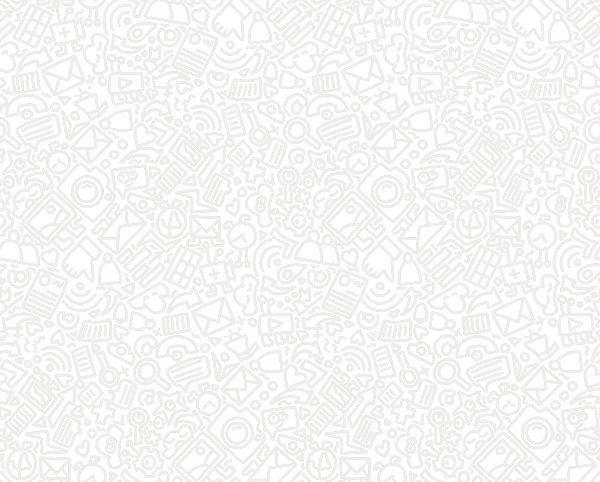
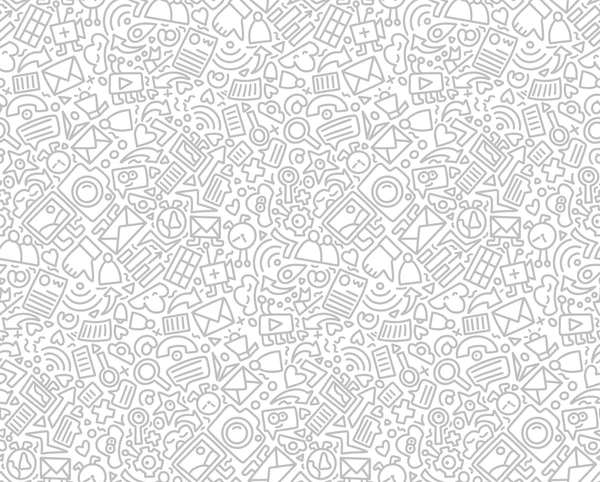
feat: ui enhancements

diff --git a/pages/chat.vue b/pages/chat.vue
@@ -2,7 +2,7 @@
     <div class="content">
         <div class="user-container">
             <h2 class="mb-3">Users</h2>
-            <span class="sidebar-user" v-for="name in usernames">
+            <span :class="`sidebar-user ${name == store.username ? 'active' : ''}`" v-for="name in usernames">
                 <Avatar :username="name" active />
                 <p class="ml-3">{{ name }}</p>
             </span>
@@ -33,7 +33,7 @@ import Avatar from '~/components/Avatar.vue'
 import { ref } from 'vue'
 import { useHead } from '@unhead/vue'
 
-useHead({ title: 'NuxtChat' })
+useHead({ title: 'NuxtChat - ' + store.username })
 watchEffect(() => {
     if (store.username == '') navigateTo('/')
 })
@@ -50,14 +50,12 @@ onMounted(() => {
 })
 
 let usernames = ref([]);
-watch([data, users], async () => {
-    let temp = [store.username]
-    if (users.value.length > 0) {
-        temp = temp.concat(...users.value)
-    } else {
-        temp = temp.concat(...data.value)
-    }
-    usernames.value = [...new Set(temp.sort())]
+watch([users], async () => {
+    if (users.value.length == 0) return;
+    usernames.value = [...new Set([store.username, ...users.value].sort())]
+});
+watch([data], async () => {
+    usernames.value = [...new Set([store.username, ...data.value].sort())]
 });
 
 const inputValue = ref('')
@@ -92,7 +90,6 @@ input {
     display: flex;
     height: calc(100vh - 84px);
     margin: 0 auto;
-    border: 1px solid #ccc;
 
     width: 100%;
     color: darkslategray;
@@ -100,18 +97,36 @@ input {
 
 .user-container {
     min-width: 15rem;
-    background-color: white;
+    background-color: rgb(250, 250, 250);
     border-right: 1px solid #ccc;
-    padding: 1rem 1rem 1rem 5rem;
+    padding: 1rem 0 1rem 0;
 
     h2 {
+        margin-left: 5rem;
         font-weight: bold;
     }
 
     .sidebar-user {
         display: flex;
         align-items: center;
+        padding-left: 5rem;
         margin-bottom: .5rem;
+        padding-top: .5rem;
+        border-top: rgba(119, 119, 119, 0.073) solid 2px;
+
+        &:last-of-type {
+            padding-bottom: .5rem;
+            border-bottom: rgba(119, 119, 119, 0.073) solid 2px;
+        }
+
+        &.active {
+            background-color: rgba(238, 238, 238, 0.355);
+
+            p {
+                color: #00b86b;
+                font-size: large;
+            }
+        }
 
         img {
             border: #00dc82 solid 3px !important;
@@ -139,8 +154,9 @@ input {
 
     .textbox {
         display: flex;
-        border-top: 1px solid #ccc;
+        border-top: 1px solid #0f1729;
         padding: 20px;
+        background-color: #0f1729;
 
         .text-input {
             width: 100%;

diff --git a/layouts/default.vue b/layouts/default.vue
@@ -3,19 +3,21 @@
         <p class="logo-text"><img id="header-icon" src="/favicon.ico" alt="" />Nuxt<span>Chat</span></p>
         <div class="user-section flex" v-if="store.activeSession">
             <UAvatar style="background-color: white;" :src="`https://robohash.org/${store.username}`" alt="Avatar" />
-            <div @click="toggleDropdown">
-                <p class="ml-2 self-center">{{ store.username }}</p>
-                <UIcon id="dropdown-icon"
-                    :name="isDropdownActive ? 'i-heroicons-chevron-up-20-solid' : 'i-heroicons-chevron-down-20-solid'"
-                    class="w-5 h-5 ml-2 color-white" />
-            </div>
-            <div id="dropdown-section" :class="isDropdownActive ? 'active' : ''">
-                <UButton @click="handleLogout">logout</UButton>
-            </div>
+            <UDropdown class="ml-3" :items="[[{
+                label: 'Logout',
+                icon: 'i-heroicons-power-20-solid',
+                click: handleLogout
+            }]]" :popper="{ placement: 'bottom-start' }">
+                <div>
+                    <p class="self-center">{{ store.username }}</p>
+                    <UIcon id="dropdown-icon" name="i-heroicons-chevron-down-20-solid"
+                        class="w-5 h-5 ml-2 color-white" />
+                </div>
+            </UDropdown>
         </div>
     </div>
     <NuxtLoadingIndicator />
-    <slot />
+    <slot></slot>
 </template>
 
 <script setup>
@@ -24,9 +26,6 @@ import { ref } from 'vue';
 
 const isDropdownActive = ref(false)
 
-const toggleDropdown = () => {
-    isDropdownActive.value = !isDropdownActive.value
-}
 const handleLogout = () => {
     isDropdownActive.value = false
     navigateTo('/')
@@ -63,28 +62,5 @@ const handleLogout = () => {
 
 #header-icon {
     width: 40px;
-}
-
-#dropdown-icon {
-    transition: all 1s ease-in-out;
-}
-
-#dropdown-section {
-    position: absolute;
-    width: 8rem;
-    background-color: white;
-    transform: translateY(3rem);
-    display: none;
-    padding: .5rem;
-    border-radius: 10px;
-    transition: all 1s ease-in-out;
-
-    &.active {
-        display: block;
-    }
-
-    button {
-        width: 100%;
-    }
 }
 </style>

diff --git a/server/api/getUsers.ts b/server/api/getUsers.ts
@@ -1,9 +1,9 @@
 import { DynamoDBClient } from "@aws-sdk/client-dynamodb";
-import { Resource } from "sst";
+// import { Resource } from "sst";
 import scanTable from "~/utils/scanTable";
 
-// const DB_NAME = "vjschat-production-ConnectionsTable";
-const DB_NAME = Resource.Connections.name;
+const DB_NAME = "vjschat-production-ConnectionsTable";
+// const DB_NAME = Resource.Connections.name;
 
 export default defineEventHandler(async () => {
   const dynamoClient = new DynamoDBClient();

diff --git a/assets/css/main.css b/assets/css/main.css
@@ -1,6 +1,18 @@
 body {
   min-height: 100vh;
   margin: 0;
+  background-color: rgb(244, 244, 244);
+}
+
+body::before {
+  content: "";
+  position: absolute;
+  top: 0;
+  left: 0;
+  width: 100%;
+  height: 100%;
+  opacity: 0.4;
+  z-index: -1;
   background-image: url(~/assets/images/bg.png);
   background-repeat: repeat;
 }

diff --git a/components/Avatar.vue b/components/Avatar.vue
@@ -3,8 +3,6 @@
 </template>
 
 <script setup>
-import { ref } from 'vue'
-
 const props = defineProps({
     username: {
         type: String,
@@ -17,7 +15,7 @@ const props = defineProps({
 })
 </script>
 
-<style scoped>
+<style lang="scss" scoped>
 .avatar {
     background-color: white;
     border: #0f172929 solid 1px;

diff --git a/components/ChatBox.vue b/components/ChatBox.vue
@@ -58,7 +58,7 @@ const formattedDate = ref(new Intl.DateTimeFormat('en-US', {
 }).format(props.dateCreated ?? new Date()))
 </script>
 
-<style scoped>
+<style lang="scss" scoped>
 .chat-box {
     display: flex;
     align-items: flex-start;
